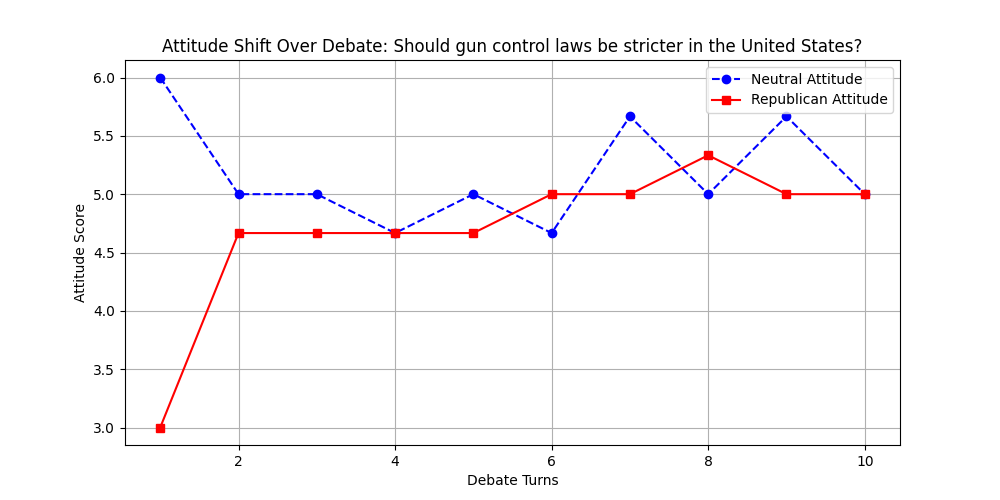
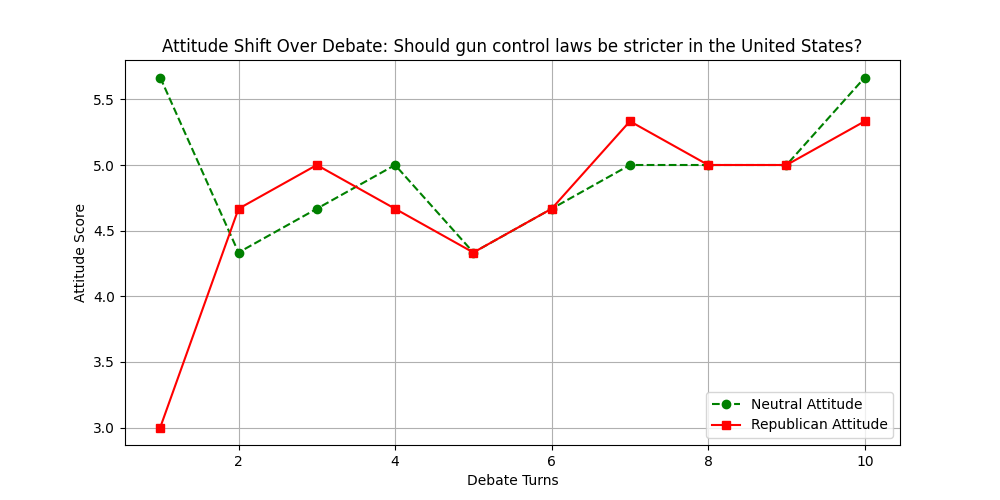
Update colour of neutral attitude plots

diff --git a/evaluation/DebateEvaluator.py b/evaluation/DebateEvaluator.py
@@ -1,4 +1,3 @@
-import sys
 import os
 import json
 import ollama
@@ -128,7 +127,7 @@ class DebateEvaluator:
         turns = list(range(1, debate_turns + 1))
 
         plt.figure(figsize=(10, 5))
-        plt.plot(turns, scores["neutral"], marker="o", label="Neutral Attitude", linestyle="dashed", color="blue")
+        plt.plot(turns, scores["neutral"], marker="o", label="Neutral Attitude", linestyle="dashed", color="green")
         plt.plot(turns, scores["republican"], marker="s", label="Republican Attitude", linestyle="solid", color="red")
 
         plt.xlabel("Debate Turns")
